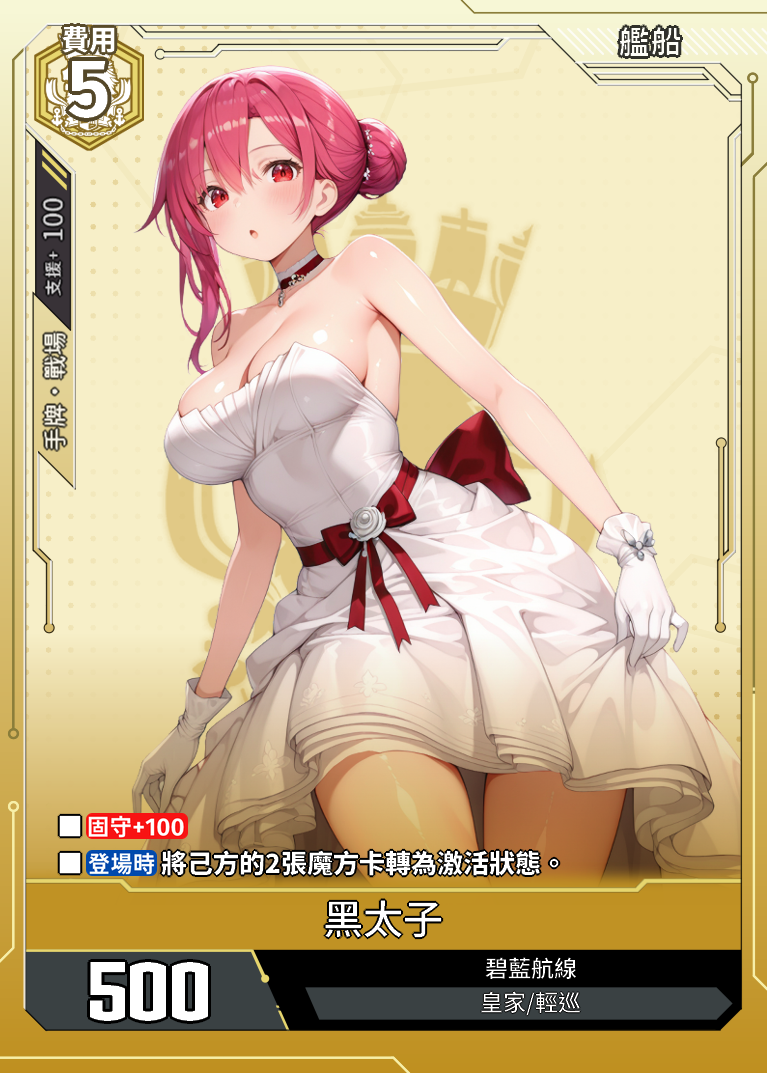
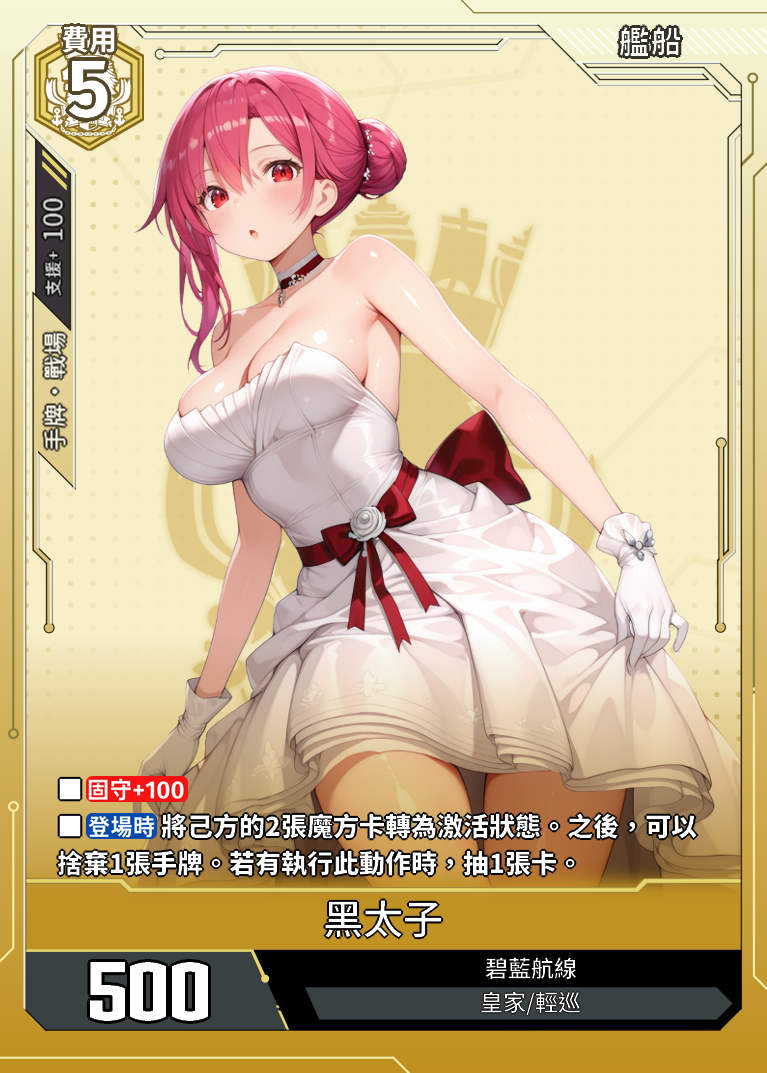
修改黑太子跟英王喬治五世

Changed region(s): [[0.06, 0.7074, 0.8096, 0.8304], [0.8396, 0.7381, 0.9296, 0.7996]]

diff --git a/data.js b/data.js
@@ -24659,7 +24659,7 @@ const cards = [
             "支援範圍": "手牌·戰場",
             "支援值": "100"
         },
-        "card_effect": "■【固守+100】■【登場時】將己方的2張魔方卡轉為激活狀態。",
+        "card_effect": "■【固守+100】■【登場時】將己方的2張魔方卡轉為激活狀態。之後，可以捨棄1張手牌。若有執行此動作時，抽1張卡。",
         "acquisition_method": "CE02-早期測試"
     },
 	{
@@ -24751,7 +24751,7 @@ const cards = [
             "艦船類型": "戰列",
             "罕　貴": "-",
             "勢　力": "碧藍航線",
-            "支援範圍": "手牌·戰場",
+            "支援範圍": "戰場",
             "支援值": "100"
         },
         "card_effect": "■【遠程】■【登場時】選擇對方戰場上的1張費用為4或以下的艦船卡，將該卡轉為休息狀態。■【每回合1次】此卡被戰場上的《皇家》〈戰列〉/〈戰巡〉卡牌支援時，本次戰鬥中，此卡戰力+100。",

diff --git a/deckbuild.html b/deckbuild.html
@@ -67,6 +67,7 @@
 						<option value="固守">【固守】</option> 
 						<option value="【遠程】">【遠程】</option> 
 						<option value="【速攻】">【速攻】</option>
+						<option value="【潛水】">【潛水】</option>
 						<option value="【改造】">【改造】</option>
 						<option value="【登場時】">【登場時】</option> 
 						<option value="【己方回合結束時】">【己方回合結束時】</option> 

diff --git a/index.html b/index.html
@@ -69,6 +69,7 @@
 						<option value="固守">【固守】</option> 
 						<option value="【遠程】">【遠程】</option> 
 						<option value="【速攻】">【速攻】</option>
+						<option value="【潛水】">【潛水】</option>
 						<option value="【改造】">【改造】</option>
 						<option value="【登場時】">【登場時】</option> 
 						<option value="【己方回合結束時】">【己方回合結束時】</option> 
